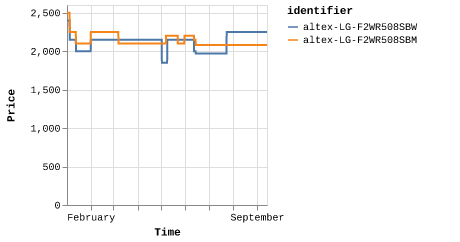
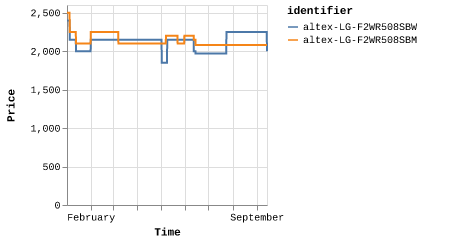
Latest scraping spalat: Sat Sep 14 04:42:07 UTC 2024

diff --git a/scrapes/spalat/altex-LG-F2WR508SBW.md b/scrapes/spalat/altex-LG-F2WR508SBW.md
@@ -1,3 +1,3 @@
-2249
+1999
 
 [Source](https://altex.ro/masina-de-spalat-rufe-frontala-slim-lg-f2wr508sbw-steam-8-kg-1200rpm-clasa-a-alb/cpd/MSFF2WR508SBW/)
